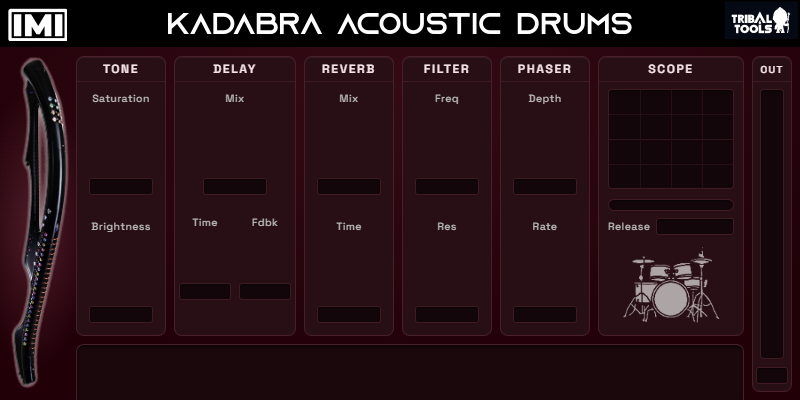
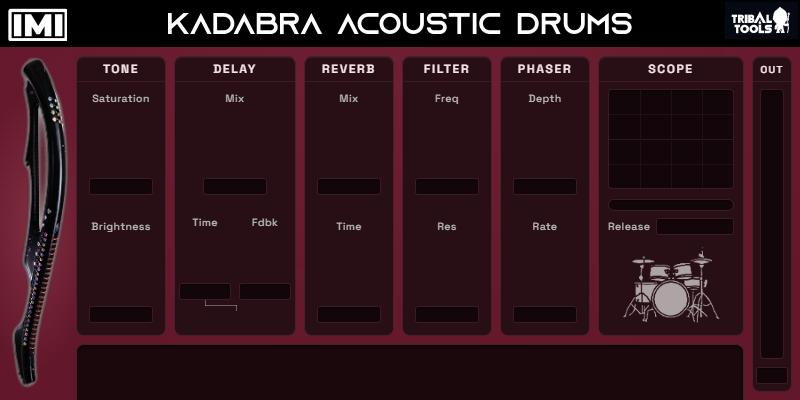
GUI v4: revised base picture, half-width Sync toggle; startup defaults
- New base picture; Delay Sync toggle is now the 53x19 strip at 209,310
  (old 106x19 strips removed)
- DefaultUserPreset = Full Reset so a fresh instance starts at the defaults:
  presets panel closed, Delay Sync on with Time 7, free delay memory 400
- Saved control values aligned series-wide (Release 1 ms, Output Gain -6 dB,
  Delay Feedback 0)

Claude-Session: https://claude.ai/code/session_01SuHFsbACpEgRk3D2d72sew

Changed region(s): [[0.0, 0.12, 1.0, 1.0]]

diff --git a/Scripts/ScriptProcessors/Kadabra-Acoustic-Drums/Interface.js b/Scripts/ScriptProcessors/Kadabra-Acoustic-Drums/Interface.js
@@ -238,7 +238,7 @@ inline function onDelaySyncModeControl(component, value)
         DelayTimeKnob.set("max", 18);
         DelayTimeKnob.set("middlePosition", 9);   // linear across divisions
         DelayTimeKnob.set("stepSize", 1);
-        DelayTimeKnob.set("defaultValue", 8);     // double-click reset target
+        DelayTimeKnob.set("defaultValue", 7);     // double-click reset target
         DelayTimeKnob.setValue(delaySyncMemory.getValue());   // restore last sync value
     }
     else // Free mode
@@ -266,7 +266,7 @@ if (DelaySyncMode.getValue() == 1)
     DelayTimeKnob.set("max", 18);
     DelayTimeKnob.set("middlePosition", 9);
     DelayTimeKnob.set("stepSize", 1);
-    DelayTimeKnob.set("defaultValue", 8);
+    DelayTimeKnob.set("defaultValue", 7);
     DelayTimeKnob.setValue(delaySyncMemory.getValue());
 }
 else
